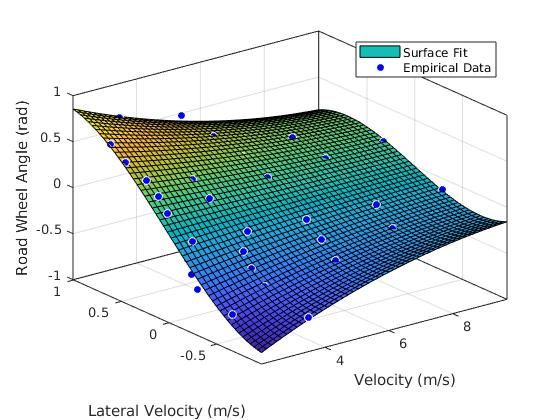
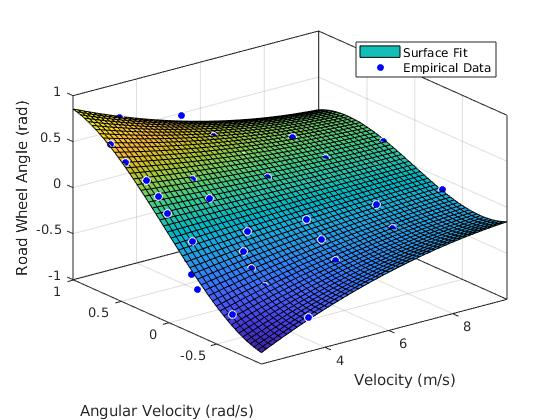
edited some code

Changed region(s): [[0.1214, 0.9595, 0.4554, 1.0]]

diff --git a/road_feedforward_vel.m b/road_feedforward_vel.m
@@ -1,0 +1,40 @@
+function [fitresult, gof] = road_feedforward_vel(speed, lateral_acceleration, road_wheel_angles_rad)
+%CREATEFIT(SPEED,LATERAL_VELOCITY,ROAD_WHEEL_ANGLES_RAD)
+%  Create a fit.
+%
+%  Data for 'untitled fit 1' fit:
+%      X Input : speed
+%      Y Input : lateral_velocity
+%      Z Output: road_wheel_angles_rad
+%  Output:
+%      fitresult : a fit object representing the fit.
+%      gof : structure with goodness-of fit info.
+%
+%  See also FIT, CFIT, SFIT.
+
+%  Auto-generated by MATLAB on 28-Sep-2019 11:00:44
+
+
+%% Fit: 'untitled fit 1'.
+[xData, yData, zData] = prepareSurfaceData( speed, lateral_acceleration, road_wheel_angles_rad );
+
+% Set up fittype and options.
+ft = fittype( 'poly33' );
+
+% Fit model to data.
+[fitresult, gof] = fit( [xData, yData], zData, ft );
+
+% Plot fit with data.
+figure( 'Name', 'Feedforward Road Wheel Angle' );
+h = plot( fitresult, [xData, yData], zData );
+legend( h, 'Surface Fit', 'Empirical Data', 'Location', 'NorthEast', 'Interpreter', 'none' );
+% Label axes
+xlabel( 'Velocity (m/s)', 'Interpreter', 'none' );
+ylabel( 'Angular Velocity (rad/s)');
+zlabel( 'Road Wheel Angle (rad)', 'Interpreter', 'none' );
+
+% title
+% title ('Lateral Feedforward')
+grid on
+
+

diff --git a/steering_lataccel.m b/steering_lataccel.m
@@ -466,10 +466,11 @@ steering_wheel_angles = [sw_450, sw_360, sw_270, sw_180, sw_90, sw90, sw180, sw2
 
 steering_wheel_angles_rad = pi/180 * steering_wheel_angles;
 
-road_wheel_angles_rad = steerg_wheel_angles/12.5;
+road_wheel_angles_rad = steering_wheel_angles_rad/12.5;
 
-lateing_wheel_angles_rad/12.5;
-road_wheel_angles_deg = steerinralDynamics (speed, road_wheel_angles_rad, lateral_acceleration)
+road_wheel_angles_deg = steering_wheel_angles/12.5;
+lateralDynamics (speed, road_wheel_angles_rad, lateral_acceleration)
 lateralVelocity (speed, road_wheel_angles_rad, lateral_velocity)
+road_feedforward_vel (speed, lateral_velocity, road_wheel_angles_rad)
 road_feedforward (speed, lateral_acceleration, road_wheel_angles_rad)
 cftool

diff --git a/lateralVelocity.m b/lateralVelocity.m
@@ -31,7 +31,7 @@ legend( h, 'Surface Fit', 'Empirical Data', 'Location', 'NorthEast', 'Interprete
 % Label axes
 xlabel( 'Velocity (m/s)', 'Interpreter', 'none' );
 ylabel( 'Road Wheel Angle (rad)', 'Interpreter', 'none' );
-zlabel( 'Lateral Velocity (m/s)', 'Interpreter', 'none' );
+zlabel( 'Angular Velocity (rad/s)', 'Interpreter', 'none' );
 
 % title
 % title('Data-Driven Lateral Velocity Fit')
